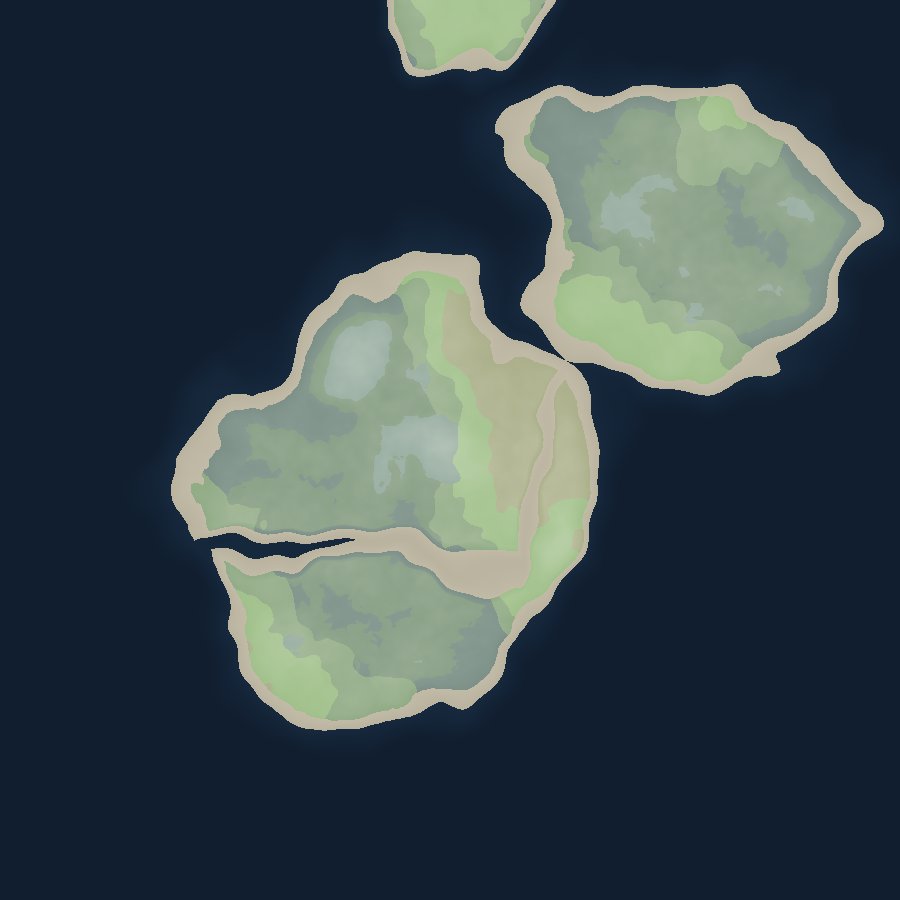
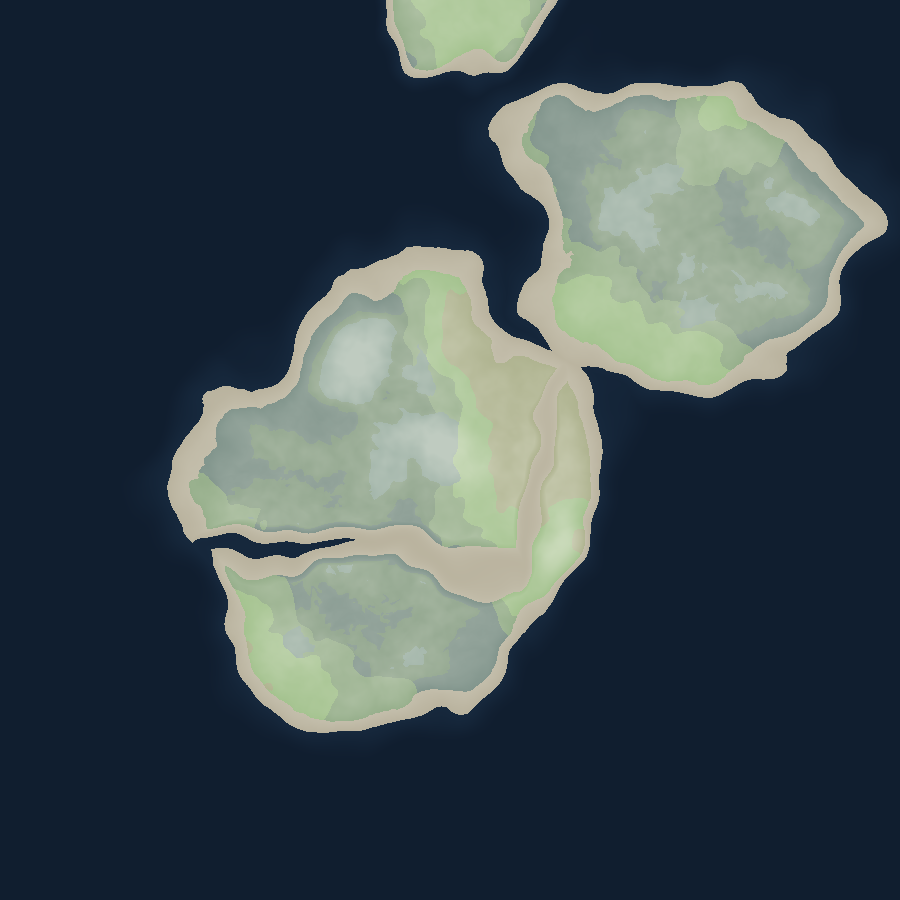
F-400: taller hills, with the biome bands retuned in the same change
HEIGHT_SCALE 6.0 -> 8.5, HILL_HEIGHT 2.5/4.5 -> 4.0/7.5, RIDGE_WEIGHT
1.2 -> 1.7. Island peak 6.3m -> 9.5m. A nudge within the mostly-flat brief,
not a reversal of the deliberate 60 -> 26 -> 11 -> 6 walk down.

Held back until F-401 landed because the two are coupled, and the numbers
show why. Straight after the height change alone:

  highland 41.3%  shore 17.8%  grassland 15.5%  forest 7.7% ...

Highland went 5.2% -> 41.3% purely because its band starts at a fixed 3.9m
and the ground grew past it; forest collapsed 27.1% -> 7.7%. Rescaling the
seven bands by ~1.45 restores it:

  shore 25.0%  forest 21.5%  marsh 14.6%  grassland 13.8%
  birchwood 11.2%  highland 7.9%  heath 6.1%

biome_terrain_check caught the other half — its probes sat in the old bands
and failed 4. Re-derived. That is the check doing the job it was just
repaired for.

Fourth instance today of an absolute constant that was really a fraction of
something that moved (after BASE_SPREAD_RATE, the river widths, and
terrain_normal_check's sample coords). Biome bands are the next candidate
for being expressed as fractions of the height range.

terrain, biome_terrain, terrain_normal, resource_scatter, poi all 0;
world_contract PASS.

diff --git a/.agent/BOARD.md b/.agent/BOARD.md
@@ -8,8 +8,9 @@
 
 | Task | Agent | Started | Files claimed |
 |---|---|---|---|
+| **F-400** The island's hills are too low to read as landform at the new island size | kilnd3a089 | 2026-08-21 05:25 | `world/gen/island_heightmap.gd`, `content/biomes/shore.tres`, `content/biomes/marsh.tres`, `content/biomes/forest.tres`, `content/biomes/birchwood.tres`, `content/biomes/highland.tres`, `content/biomes/grassland.tres`, `content/biomes/heath.tres`, `tools/biome_terrain_check.gd` |
 | **F-401** The island has three biomes that differ almost entirely by a single moisture threshold, so nothing reads as a distinct place | kilnd3a089 | 2026-08-21 05:03 | `content/biomes/birchwood.tres content/biomes/forest.tres content/biomes/grassland.tres content/biomes/heath.tres content/biomes/highland.tres content/biomes/marsh.tres content/biomes/shore.tres content/poi/station_camp.tres content/scatter/birchwood_canopy.tres content/scatter/birchwood_deadwood.tres content/scatter/birchwood_floor.tres content/scatter/birchwood_undergrowth.tres content/scatter/forest_canopy.tres content/scatter/forest_deadwood.tres content/scatter/forest_floor.tres content/scatter/forest_rocks.tres content/scatter/forest_undergrowth.tres content/scatter/grassland_meadow.tres content/scatter/grassland_rocks.tres content/scatter/grassland_shrubs.tres content/scatter/grassland_trees.tres content/scatter/grassland_turf.tres content/scatter/heath_scrub.tres content/scatter/heath_stones.tres content/scatter/heath_trees.tres content/scatter/heath_turf.tres content/scatter/highland_floor.tres content/scatter/highland_pines.tres content/scatter/highland_rocks.tres content/scatter/highland_scrub.tres content/scatter/marsh_canopy.tres content/scatter/marsh_deadwood.tres content/scatter/marsh_floor.tres content/scatter/marsh_reeds.tres content/scatter/shore_beach.tres content/scatter/shore_drift.tres content/scatter/shore_rocks.tres entities/props/camp_abandoned.tscn entities/props/standing_stone_circle.tscn levels/greybox_test.tscn levels/hollowmere.tscn levels/playtest_hollow.tscn levels/procedural_island.tscn `, `assets/audit/f398/after/canopy_leaves.png assets/audit/f398/after/canopy_leaves_golden.png assets/audit/f398/after/contact_afternoon.png assets/audit/f398/after/contact_golden.png assets/audit/f398/after/contact_noon.png assets/audit/f398/after/contact_overcast.png assets/audit/f398/after/dawn.png assets/audit/f398/after/dawn_ridge.png assets/audit/f398/after/dusk.png assets/audit/f398/after/evening_sunward.png assets/audit/f398/after/forest_evening_sunward.png assets/audit/f398/after/forest_sunward.png assets/audit/f398/after/golden_evening.png assets/audit/f398/after/golden_morning.png assets/audit/f398/after/golden_sunward.png assets/audit/f398/after/late_night_ground.png assets/audit/f398/after/midnight_ground.png assets/audit/f398/after/midnight_moonward.png assets/audit/f398/after/moonrise_moonward.png assets/audit/f398/after/morning.png assets/audit/f398/after/morning_sunward.png assets/audit/f398/after/night.png assets/audit/f398/after/noon.png assets/audit/f398/before/canopy_leaves.png assets/audit/f398/before/canopy_leaves_golden.png assets/audit/f398/before/contact_afternoon.png assets/audit/f398/before/contact_golden.png assets/audit/f398/before/contact_noon.png assets/audit/f398/before/contact_overcast.png assets/audit/f398/before/dawn.png assets/audit/f398/before/dawn_ridge.png assets/audit/f398/before/dusk.png assets/audit/f398/before/evening_sunward.png assets/audit/f398/before/forest_evening_sunward.png assets/audit/f398/before/forest_sunward.png assets/audit/f398/before/golden_evening.png assets/audit/f398/before/golden_morning.png assets/audit/f398/before/golden_sunward.png assets/audit/f398/before/late_night_ground.png assets/audit/f398/before/midnight_ground.png assets/audit/f398/before/midnight_moonward.png assets/audit/f398/before/moonrise_moonward.png assets/audit/f398/before/morning.png assets/audit/f398/before/morning_sunward.png assets/audit/f398/before/night.png assets/audit/f398/before/noon.png assets/audit/menu/dock_1080p.png assets/audit/menu/dock_deck.png assets/audit/menu/title_1080p_creep000.png assets/audit/menu/title_1080p_creep042.png assets/audit/menu/title_1080p_creep150.png assets/audit/menu/title_deck_creep000.png assets/audit/menu/title_deck_creep042.png assets/audit/menu/title_deck_creep150.png assets/audit/terrain/biomes_20260819.png assets/audit/terrain/biomes_4242.png assets/audit/terrain/biomes_7.png assets/audit/terrain/biomes_991.png assets/audit/terrain/island_20260819.png assets/audit/terrain/island_7.png assets/audit/terrain/island_seed7.png assets/audit/terrain/shape_20260819.png assets/audit/terrain/shape_4242.png assets/audit/terrain/shape_7.png assets/audit/terrain/shape_991.png assets/audit/trees/flora_hero.png assets/audit/trees/flora_small_trees_sheet.png assets/audit/trees/kit_hero.png assets/audit/trees/kit_trees_sheet.png assets/environment/catalog.json assets/environment/exports/tree_bare_a.glb assets/environment/exports/tree_bare_b.glb assets/environment/exports/tree_bare_c.glb assets/environment/exports/tree_bare_d.glb assets/environment/exports/tree_birch_a.glb assets/environment/exports/tree_birch_b.glb assets/environment/exports/tree_birch_c.glb assets/environment/exports/tree_birch_d.glb assets/environment/exports/tree_crooked_a.glb assets/environment/exports/tree_crooked_b.glb assets/environment/exports/tree_crooked_c.glb assets/environment/exports/tree_crooked_d.glb assets/environment/exports/tree_pine_a.glb assets/environment/exports/tree_pine_b.glb assets/environment/exports/tree_pine_c.glb assets/environment/exports/tree_pine_d.glb assets/environment/exports/tree_pine_e.glb assets/environment/exports/tree_pine_f.glb assets/environment/preview/mire_map_kit_preview.png assets/environment/preview/trees_preview.png assets/flora/catalog.json assets/flora/exports/tree_snag_a.glb assets/flora/exports/tree_snag_b.glb assets/flora/exports/tree_snag_c.glb assets/flora/exports/tree_willow_a.glb assets/flora/exports/tree_willow_b.glb assets/flora/exports/tree_willow_c.glb assets/flora/preview/flora_set_preview.png assets/flora/preview/small_trees_preview.png autoload/graphics_quality.gd content/biomes/birchwood.tres content/biomes/forest.tres content/biomes/grassland.tres content/biomes/heath.tres content/biomes/highland.tres content/biomes/marsh.tres content/biomes/shore.tres content/poi/station_camp.tres content/scatter/birchwood_canopy.tres content/scatter/birchwood_deadwood.tres content/scatter/birchwood_floor.tres content/scatter/birchwood_undergrowth.tres content/scatter/forest_canopy.tres content/scatter/forest_deadwood.tres content/scatter/forest_floor.tres content/scatter/forest_rocks.tres content/scatter/forest_undergrowth.tres content/scatter/grassland_meadow.tres content/scatter/grassland_rocks.tres content/scatter/grassland_shrubs.tres content/scatter/grassland_trees.tres content/scatter/grassland_turf.tres content/scatter/heath_scrub.tres content/scatter/heath_stones.tres content/scatter/heath_trees.tres content/scatter/heath_turf.tres content/scatter/highland_floor.tres content/scatter/highland_pines.tres content/scatter/highland_rocks.tres content/scatter/highland_scrub.tres content/scatter/marsh_canopy.tres content/scatter/marsh_deadwood.tres content/scatter/marsh_floor.tres content/scatter/marsh_reeds.tres content/scatter/shore_beach.tres content/scatter/shore_drift.tres content/scatter/shore_rocks.tres entities/props/camp_abandoned.tscn entities/props/prop_group.gd entities/props/prop_group.gd.uid entities/props/standing_stone_circle.tscn levels/greybox_test.tscn levels/hollowmere.tscn levels/playtest_hollow.tscn levels/procedural_island.tscn tools/atmosphere_look_shot.gd tools/biome_terrain_check.gd tools/blender/build_flora_set.py tools/blender/build_mire_map_kit.py tools/grade_check.gd tools/graphics_quality_check.gd tools/terrain_map_render.gd tools/terrain_texture_check.gd world/chunk/chunk_mesher.gd world/chunk/terrain_flat.gdshader world/environment/playtest_atmosphere.gd world/gen/biome_def.gd world/gen/biome_map.gd `, `content/biomes/forest.tres`, `assets/audit/f398/after/canopy_leaves.png`, `assets/audit/f398/after/canopy_leaves_golden.png`, `assets/audit/f398/after/contact_afternoon.png`, `assets/audit/f398/after/contact_golden.png`, `assets/audit/f398/after/contact_noon.png`, `assets/audit/f398/after/contact_overcast.png`, `assets/audit/f398/after/dawn.png`, `assets/audit/f398/after/dawn_ridge.png`, `assets/audit/f398/after/dusk.png`, `assets/audit/f398/after/evening_sunward.png`, `assets/audit/f398/after/forest_evening_sunward.png`, `assets/audit/f398/after/forest_sunward.png`, `assets/audit/f398/after/golden_evening.png`, `assets/audit/f398/after/golden_morning.png`, `assets/audit/f398/after/golden_sunward.png`, `assets/audit/f398/after/late_night_ground.png`, `assets/audit/f398/after/midnight_ground.png`, `assets/audit/f398/after/midnight_moonward.png`, `assets/audit/f398/after/moonrise_moonward.png`, `assets/audit/f398/after/morning.png`, `assets/audit/f398/after/morning_sunward.png`, `assets/audit/f398/after/night.png`, `assets/audit/f398/after/noon.png`, `assets/audit/f398/before/canopy_leaves.png`, `assets/audit/f398/before/canopy_leaves_golden.png`, `assets/audit/f398/before/contact_afternoon.png`, `assets/audit/f398/before/contact_golden.png`, `assets/audit/f398/before/contact_noon.png`, `assets/audit/f398/before/contact_overcast.png`, `assets/audit/f398/before/dawn.png`, `assets/audit/f398/before/dawn_ridge.png`, `assets/audit/f398/before/dusk.png`, `assets/audit/f398/before/evening_sunward.png`, `assets/audit/f398/before/forest_evening_sunward.png`, `assets/audit/f398/before/forest_sunward.png`, `assets/audit/f398/before/golden_evening.png`, `assets/audit/f398/before/golden_morning.png`, `assets/audit/f398/before/golden_sunward.png`, `assets/audit/f398/before/late_night_ground.png`, `assets/audit/f398/before/midnight_ground.png`, `assets/audit/f398/before/midnight_moonward.png`, `assets/audit/f398/before/moonrise_moonward.png`, `assets/audit/f398/before/morning.png`, `assets/audit/f398/before/morning_sunward.png`, `assets/audit/f398/before/night.png`, `assets/audit/f398/before/noon.png`, `assets/audit/menu/dock_1080p.png`, `assets/audit/menu/dock_deck.png`, `assets/audit/menu/title_1080p_creep000.png`, `assets/audit/menu/title_1080p_creep042.png`, `assets/audit/menu/title_1080p_creep150.png`, `assets/audit/menu/title_deck_creep000.png`, `assets/audit/menu/title_deck_creep042.png`, `assets/audit/menu/title_deck_creep150.png`, `assets/audit/terrain/biomes_20260819.png`, `assets/audit/terrain/biomes_4242.png`, `assets/audit/terrain/biomes_7.png`, `assets/audit/terrain/biomes_991.png`, `assets/audit/terrain/island_20260819.png`, `assets/audit/terrain/island_7.png`, `assets/audit/terrain/island_seed7.png`, `assets/audit/terrain/shape_20260819.png`, `assets/audit/terrain/shape_4242.png`, `assets/audit/terrain/shape_7.png`, `assets/audit/terrain/shape_991.png`, `assets/audit/trees/flora_hero.png`, `assets/audit/trees/flora_small_trees_sheet.png`, `assets/audit/trees/kit_hero.png`, `assets/audit/trees/kit_trees_sheet.png`, `assets/environment/catalog.json`, `assets/environment/exports/tree_bare_a.glb`, `assets/environment/exports/tree_bare_b.glb`, `assets/environment/exports/tree_bare_c.glb`, `assets/environment/exports/tree_bare_d.glb`, `assets/environment/exports/tree_birch_a.glb`, `assets/environment/exports/tree_birch_b.glb`, `assets/environment/exports/tree_birch_c.glb`, `assets/environment/exports/tree_birch_d.glb`, `assets/environment/exports/tree_crooked_a.glb`, `assets/environment/exports/tree_crooked_b.glb`, `assets/environment/exports/tree_crooked_c.glb`, `assets/environment/exports/tree_crooked_d.glb`, `assets/environment/exports/tree_pine_a.glb`, `assets/environment/exports/tree_pine_b.glb`, `assets/environment/exports/tree_pine_c.glb`, `assets/environment/exports/tree_pine_d.glb`, `assets/environment/exports/tree_pine_e.glb`, `assets/environment/exports/tree_pine_f.glb`, `assets/environment/preview/mire_map_kit_preview.png`, `assets/environment/preview/trees_preview.png`, `assets/flora/catalog.json`, `assets/flora/exports/tree_snag_a.glb`, `assets/flora/exports/tree_snag_b.glb`, `assets/flora/exports/tree_snag_c.glb`, `assets/flora/exports/tree_willow_a.glb`, `assets/flora/exports/tree_willow_b.glb`, `assets/flora/exports/tree_willow_c.glb`, `assets/flora/preview/flora_set_preview.png`, `assets/flora/preview/small_trees_preview.png`, `autoload/graphics_quality.gd`, `content/biomes/birchwood.tres`, `content/biomes/grassland.tres`, `content/biomes/heath.tres`, `content/biomes/highland.tres`, `content/biomes/marsh.tres`, `content/biomes/shore.tres`, `content/poi/station_camp.tres`, `content/scatter/birchwood_canopy.tres`, `content/scatter/birchwood_deadwood.tres`, `content/scatter/birchwood_floor.tres`, `content/scatter/birchwood_undergrowth.tres`, `content/scatter/forest_canopy.tres`, `content/scatter/forest_deadwood.tres`, `content/scatter/forest_floor.tres`, `content/scatter/forest_rocks.tres`, `content/scatter/forest_undergrowth.tres`, `content/scatter/grassland_meadow.tres`, `content/scatter/grassland_rocks.tres`, `content/scatter/grassland_shrubs.tres`, `content/scatter/grassland_trees.tres`, `content/scatter/grassland_turf.tres`, `content/scatter/heath_scrub.tres`, `content/scatter/heath_stones.tres`, `content/scatter/heath_trees.tres`, `content/scatter/heath_turf.tres`, `content/scatter/highland_floor.tres`, `content/scatter/highland_pines.tres`, `content/scatter/highland_rocks.tres`, `content/scatter/highland_scrub.tres`, `content/scatter/marsh_canopy.tres`, `content/scatter/marsh_deadwood.tres`, `content/scatter/marsh_floor.tres`, `content/scatter/marsh_reeds.tres`, `content/scatter/shore_beach.tres`, `content/scatter/shore_drift.tres`, `content/scatter/shore_rocks.tres`, `entities/props/camp_abandoned.tscn`, `entities/props/prop_group.gd`, `entities/props/prop_group.gd.uid`, `entities/props/standing_stone_circle.tscn`, `levels/greybox_test.tscn`, `levels/hollowmere.tscn`, `levels/playtest_hollow.tscn`, `levels/procedural_island.tscn`, `tools/atmosphere_look_shot.gd`, `tools/biome_terrain_check.gd`, `tools/blender/build_flora_set.py`, `tools/blender/build_mire_map_kit.py`, `tools/grade_check.gd`, `tools/graphics_quality_check.gd`, `tools/terrain_map_render.gd`, `tools/terrain_texture_check.gd`, `world/chunk/chunk_mesher.gd`, `world/chunk/terrain_flat.gdshader`, `world/environment/playtest_atmosphere.gd`, `world/gen/biome_def.gd`, `world/gen/biome_map.gd` |
-| **F-410** Three visual defects remain in the noon frame after the grade fix: pale grey trunks, orange canopy facets, and a flat grey horizon | emberd89a44 | 2026-08-21 05:23 | `tools/f410_asset_material_check.gd`, `assets/audit/lighting/f410_probe.json`, `assets/audit/lighting/f410_00_warmup.png`, `assets/audit/lighting/f410_01_current.png`, `assets/audit/lighting/f410_02_sky_absurd.png`, `assets/audit/lighting/f410_03_physical_default.png`, `assets/audit/lighting/f410_04_soft_day.png`, `assets/audit/lighting/f410_05_airy_day.png` |
+| **F-410** Three visual defects remain in the noon frame after the grade fix: pale grey trunks, orange canopy facets, and a flat grey horizon | emberd89a44 | 2026-08-21 05:23 | `tools/f410_asset_material_check.gd`, `assets/audit/lighting/f410_probe.json`, `assets/audit/lighting/f410_00_warmup.png`, `assets/audit/lighting/f410_01_current.png`, `assets/audit/lighting/f410_02_sky_absurd.png`, `assets/audit/lighting/f410_03_physical_default.png`, `assets/audit/lighting/f410_04_soft_day.png`, `assets/audit/lighting/f410_05_airy_day.png`, `tools/f410_procedural_sky_probe.gd`, `assets/audit/lighting/f410_procedural_probe.jsonl`, `assets/audit/lighting/f410_10_procedural_current.png`, `assets/audit/lighting/f410_11_procedural_soft.png`, `assets/audit/lighting/f410_12_procedural_clear.png` |
 
 **F-410 notes:**
 - Sequoyah clarified that 7cf1225 is diagnostic context, not an approved look. Re-establish the daylight target from neutral same-run renders; preserve no value without visual proof. GLB JSON proves pine/crooked bark materials contain the intended brown palette values and leaf_gold is deliberately exported, so F-092's old cache mismatch is not the live cause.
@@ -112,7 +113,7 @@
 | ⬜ | **F-397** F-379's grade pass turned the forest floor brown, which is further from the target than the green it replaced | todo |
 | ⬜ | **F-398** The terrain has no ambient occlusion, so nothing is grounded where it meets the ground | todo |
 | ⬜ | **F-399** The ground is one flat untextured colour per biome, so large areas read as dead space | todo |
-| ⬜ | **F-400** The island's hills are too low to read as landform at the new island size | todo |
+| 🔵 | **F-400** The island's hills are too low to read as landform at the new island size | in_flight |
 | 🔵 | **F-401** The island has three biomes that differ almost entirely by a single moisture threshold, so nothing reads as a distinct place | in_flight |
 | ⬜ | **F-402** A bare workbench stands alone in open ground because the station_camp POI places a single prop and calls it a camp | todo |
 | ⬜ | **F-404** Three separate movement-feel defects: stopping is near-instant, air control bleeds speed sideways, and gravity_scale 2.0 makes any real fall brutal | todo |

diff --git a/docs/FINDINGS.md b/docs/FINDINGS.md
@@ -2162,30 +2162,6 @@ somebody will act on it anyway.
 
 ---
 
-### F-400 · The island's hills are too low to read as landform at the new island size
-
-**Area:** worldgen · **Severity:** medium · **Found:** 2026-08-21 by kilnd3a089
-
-Requested from play (2026-08-20, Sequoyah): "id also like to make the hills a bit taller as well."
-
-`world/gen/island_heightmap.gd`: `HEIGHT_SCALE` 6.0, `HILL_HEIGHT_MIN` 2.5, `HILL_HEIGHT_MAX` 4.5 —
-so a hill crown lifts 2.5-4.5 m over a hill radius of 30-60 m, which is a grade of roughly 1 in 13 at
-its steepest. The terrain render measures the whole island at low -5.0 / high 6.3 m.
-
-These were tuned against a 118 m island. F-368 raised `ISLAND_RADIUS` to 295 m without touching
-them, so the same relief is now spread over 2.5x the distance and reads flatter than it measured —
-another instance of the absolute-constant-that-was-really-a-fraction pattern this file has already
-hit three times today.
-
-**The constraint:** the standing art direction is explicit that MIRE's terrain is mostly flat with
-gentle rolling hills and no mountains, with Muck as the reference, and the amplitude has already been
-walked down deliberately (60 -> 26 -> 11 -> 6) on earlier playtest verdicts. "A bit taller" is a
-nudge within that brief, not a reversal of it. Whatever number is chosen should be justified against
-a slope measurement, not by eye alone, and re-judged on a top-down render plus a ground-level shot —
-the failure mode on the way up is the "weird pits and aggressive valleys" an earlier pass produced.
-
----
-
 ### F-404 · Three separate movement-feel defects: stopping is near-instant, air control bleeds speed sideways, and gravity_scale 2.0 makes any real fall brutal
 
 **Area:** gameplay · **Severity:** medium · **Found:** 2026-08-21 by kilnd3a089
@@ -2338,6 +2314,67 @@ Worth re-reading F-357's eliminated-causes list before starting — six are alre
 ---
 
 ## Resolved
+
+### F-400 · The island's hills are too low to read as landform at the new island size — **fixed**
+
+**Area:** worldgen · **Severity:** medium · **Found:** 2026-08-21 by kilnd3a089
+
+Requested from play (2026-08-20, Sequoyah): "id also like to make the hills a bit taller as well."
+
+`world/gen/island_heightmap.gd`: `HEIGHT_SCALE` 6.0, `HILL_HEIGHT_MIN` 2.5, `HILL_HEIGHT_MAX` 4.5 —
+so a hill crown lifts 2.5-4.5 m over a hill radius of 30-60 m, which is a grade of roughly 1 in 13 at
+its steepest. The terrain render measures the whole island at low -5.0 / high 6.3 m.
+
+These were tuned against a 118 m island. F-368 raised `ISLAND_RADIUS` to 295 m without touching
+them, so the same relief is now spread over 2.5x the distance and reads flatter than it measured —
+another instance of the absolute-constant-that-was-really-a-fraction pattern this file has already
+hit three times today.
+
+**The constraint:** the standing art direction is explicit that MIRE's terrain is mostly flat with
+gentle rolling hills and no mountains, with Muck as the reference, and the amplitude has already been
+walked down deliberately (60 -> 26 -> 11 -> 6) on earlier playtest verdicts. "A bit taller" is a
+nudge within that brief, not a reversal of it. Whatever number is chosen should be justified against
+a slope measurement, not by eye alone, and re-judged on a top-down render plus a ground-level shot —
+the failure mode on the way up is the "weird pits and aggressive valleys" an earlier pass produced.
+
+---
+
+**Resolved 2026-08-21 by kilnd3a089.** Hills raised, and the biome bands retuned in the same change because they are coupled — which is why
+this waited for F-401 to land rather than being done alongside it.
+
+    HEIGHT_SCALE      6.0 -> 8.5
+    HILL_HEIGHT_MIN   2.5 -> 4.0        HILL_HEIGHT_MAX  4.5 -> 7.5
+    RIDGE_WEIGHT      1.2 -> 1.7
+
+Island peak height **6.3 m -> 9.5 m**, a touch over 1.5x. A nudge within the standing brief — mostly
+flat, gentle rolling hills, no mountains — not a reversal of the deliberate 60 -> 26 -> 11 -> 6 walk
+down that earlier playtests asked for.
+
+**The coupling, measured rather than assumed.** Biome selection reads absolute height bands, so
+raising the terrain moved every biome without touching a single biome file. Straight after the height
+change, at seed 20260819:
+
+    highland 41.3%  shore 17.8%  grassland 15.5%  forest 7.7%  heath 7.1%  birchwood 5.7%  marsh 4.8%
+
+Highland went 5.2% -> 41.3% purely because its band starts at a fixed 3.9 m and the ground grew past
+it. Forest collapsed 27.1% -> 7.7%. Rescaling the seven bands by ~1.45 restores the intended spread:
+
+    shore 25.0%  forest 21.5%  marsh 14.6%  grassland 13.8%  birchwood 11.2%  highland 7.9%  heath 6.1%
+
+Close to the pre-change distribution on every biome, with highland deliberately landing a little
+higher than its old 5.2% — taller hills should produce more high ground, not less.
+
+`tools/biome_terrain_check.gd` caught the second half of the same coupling immediately: its probe
+points sat inside the OLD bands, so marsh and forest resolved to the wrong biome and it failed 4.
+Re-derived against the new bands. That is the check doing exactly the job it was repaired for.
+
+**This is the fourth instance today of one pattern** — an absolute constant that was really a fraction
+of something that moved. The others were `MireGrid.BASE_SPREAD_RATE`, the river half-widths, and
+`terrain_normal_check`'s sample coordinates. Biome height bands are the next candidate for being
+expressed as fractions of the height range rather than metres.
+
+Verified: terrain_check 0, biome_terrain_check 0, terrain_normal_check 0, resource_scatter_check 0,
+poi_check 0, world_contract_check PASS. Render: `assets/audit/terrain/island_20260819.png`.
 
 ### F-396 · Every tree in the repo is about 3x eye height, so the island reads as scrub rather than forest — **fixed**
 
